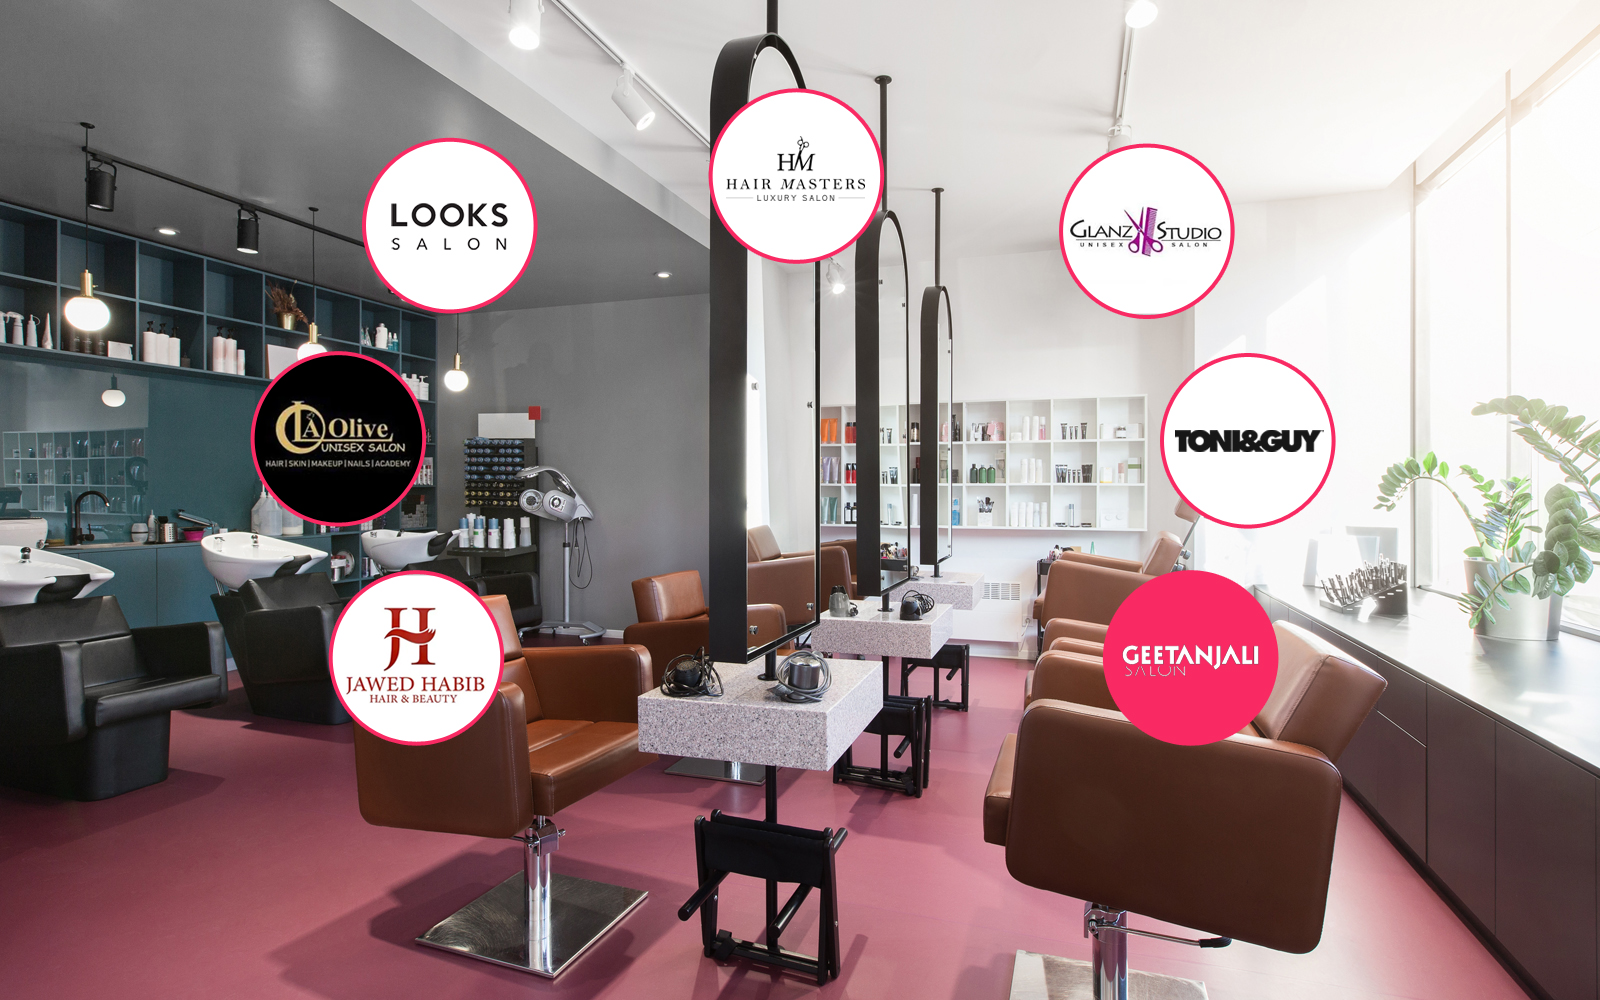
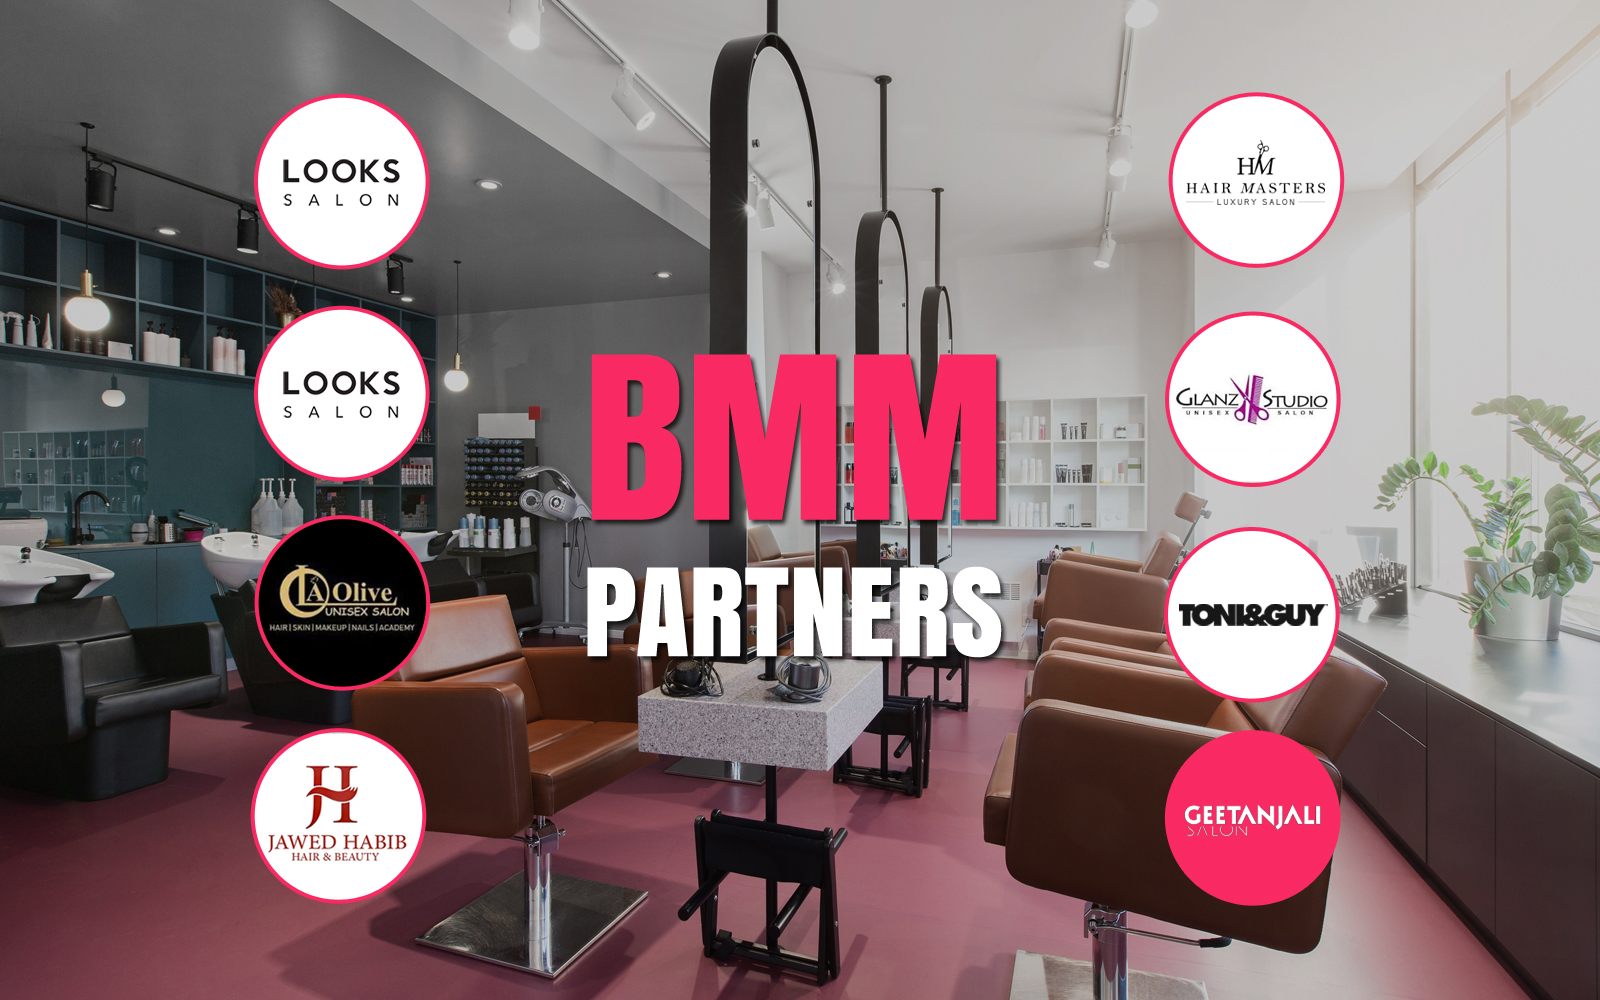
BMM Partners images added in login & register

diff --git a/assets/css/custom.css b/assets/css/custom.css
@@ -5637,3 +5637,7 @@ nav ul li.active-offer-nav>a:hover {
             color: white;
             background: #f92b62;
         }
+        
+        .partner-section img {
+            width: 100%;
+        }

diff --git a/pro/pro-register.php b/pro/pro-register.php
@@ -200,6 +200,10 @@
         </div>
     </section>
 
+    <section class="partner-section">
+        <img src="../assets/images/login-section-pro-bg.jpg" alt="" />
+    </section>
+
     <?php include 'include/footer.php' ?>
     <script>
         let token = localStorage.getItem('salonToken');

diff --git a/pro/pro-login.php b/pro/pro-login.php
@@ -177,6 +177,10 @@
 
         </div>
     </section>
+
+    <section class="partner-section">
+        <img src="../assets/images/login-section-pro-bg.jpg" alt="" />
+    </section>
     
     <?php include 'include/footer.php' ?>
     <script>
